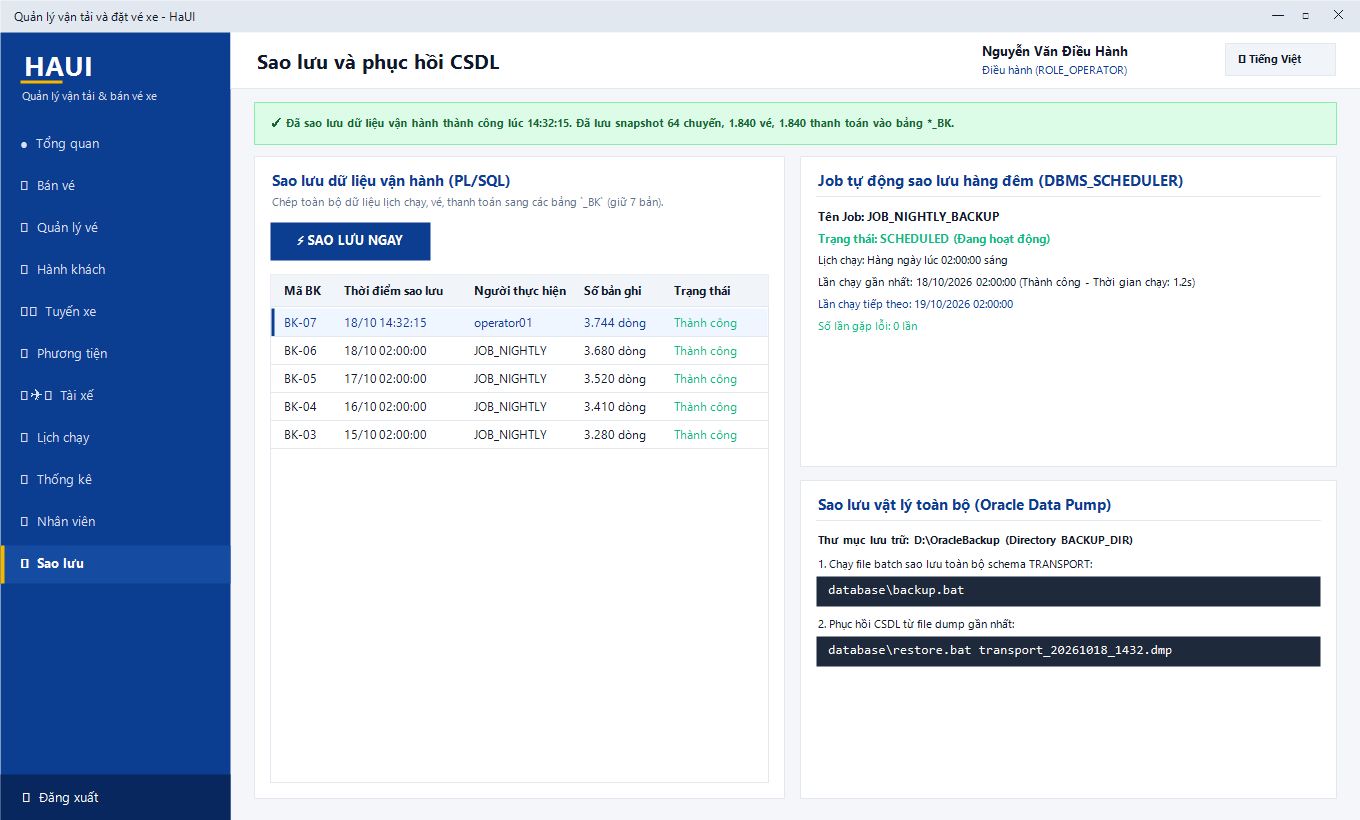
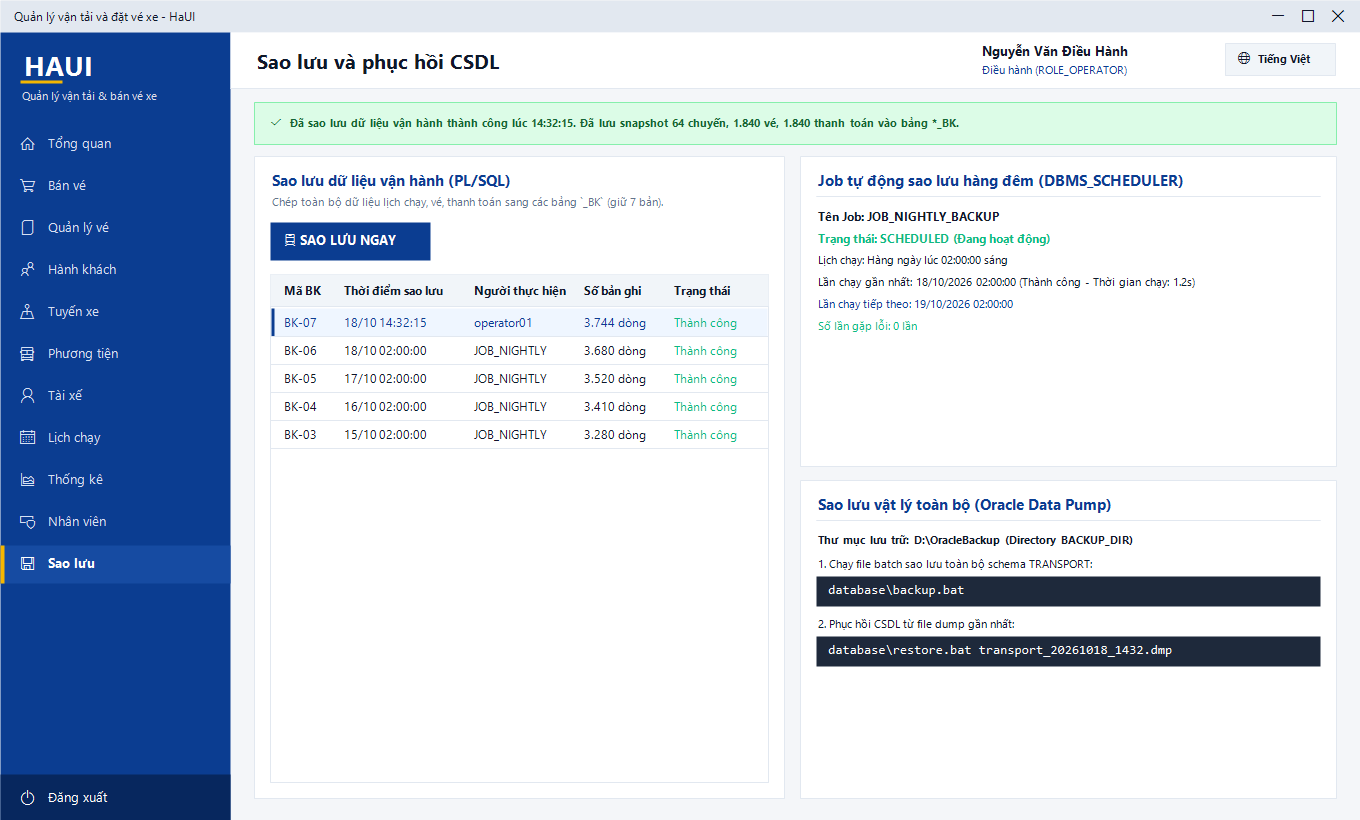
fix(docs): replace emoji with Segoe MDL2 Assets glyphs to fix tofu characters in screenshots

diff --git a/scripts/GenerateScreenshots/Program.cs b/scripts/GenerateScreenshots/Program.cs
@@ -40,6 +40,8 @@ public static class Program
     private static readonly Font FontSmall = new("Segoe UI", 8.5f);
     private static readonly Font FontSmallB = new("Segoe UI", 8.5f, FontStyle.Bold);
     private static readonly Font FontBtn = new("Segoe UI", 9.5f, FontStyle.Bold);
+    private static readonly Font FontSymbol = new("Segoe MDL2 Assets", 11f);
+    private static readonly Font FontSymbolSm = new("Segoe MDL2 Assets", 9f);
 
     private static readonly Brush BNavy = new SolidBrush(Navy);
     private static readonly Brush BNavyDark = new SolidBrush(NavyDark);
@@ -117,9 +119,9 @@ public static class Program
 
         var titleText = isEng ? "Transport Management & Ticket Booking - HaUI" : "Quản lý vận tải và đặt vé xe - HaUI";
         g.DrawString(titleText, FontTitle, BDark, 12, 8);
-        g.DrawString("—", FontTitle, BDark, w - 90, 6);
-        g.DrawString("□", FontTitle, BDark, w - 60, 6);
-        g.DrawString("✕", FontTitle, BDark, w - 30, 6);
+        g.DrawString("\uE921", FontSymbolSm, BDark, w - 90, 10);
+        g.DrawString("\uE922", FontSymbolSm, BDark, w - 60, 10);
+        g.DrawString("\uE8BB", FontSymbolSm, BDark, w - 30, 10);
 
         // Sidebar
         g.FillRectangle(BNavy, 0, 32, 230, h - 32);
@@ -132,7 +134,7 @@ public static class Program
         var menusVi = new[] { "Tổng quan", "Bán vé", "Quản lý vé", "Hành khách", "Tuyến xe", "Phương tiện", "Tài xế", "Lịch chạy", "Thống kê", "Nhân viên", "Sao lưu" };
         var menusEn = new[] { "Dashboard", "Sell Tickets", "Tickets", "Passengers", "Routes", "Vehicles", "Drivers", "Schedules", "Statistics", "Staff", "Backup" };
         var menus = isEng ? menusEn : menusVi;
-        var icons = new[] { "●", "🎫", "📑", "👥", "🛣", "🚌", "👨✈", "📅", "📈", "👤", "💾" };
+        var glyphs = new[] { "\uE80F", "\uE7BF", "\uE8A5", "\uE716", "\uE707", "\uE806", "\uE77B", "\uE787", "\uE9D2", "\uE7EF", "\uE74E" };
 
         var ym = 125;
         for (int i = 0; i < menus.Length; i++)
@@ -141,20 +143,23 @@ public static class Program
             {
                 g.FillRectangle(BNavyHover, 0, ym, 230, 38);
                 g.FillRectangle(BGold, 0, ym, 4, 38);
-                g.DrawString($"{icons[i]}  {menus[i]}", FontMenuB, BWhite, 18, ym + 9);
+                g.DrawString(glyphs[i], FontSymbol, BWhite, 18, ym + 11);
+                g.DrawString(menus[i], FontMenuB, BWhite, 46, ym + 9);
             }
             else
             {
                 using var b = new SolidBrush(Color.FromArgb(215, 225, 245));
-                g.DrawString($"{icons[i]}  {menus[i]}", FontMenu, b, 18, ym + 9);
+                g.DrawString(glyphs[i], FontSymbol, b, 18, ym + 11);
+                g.DrawString(menus[i], FontMenu, b, 46, ym + 9);
             }
             ym += 42;
         }
 
         // Logout button
-        var logoutText = isEng ? "🚪  Sign out" : "🚪  Đăng xuất";
+        var logoutText = isEng ? "Sign out" : "Đăng xuất";
         g.FillRectangle(BNavyDark, 0, h - 46, 230, 46);
-        g.DrawString(logoutText, FontMenu, BWhite, 20, h - 32);
+        g.DrawString("\uE7E8", FontSymbol, BWhite, 18, h - 30);
+        g.DrawString(logoutText, FontMenu, BWhite, 46, h - 32);
 
         // Top Header
         g.FillRectangle(BWhite, 230, 32, w - 230, 56);
@@ -166,11 +171,12 @@ public static class Program
         g.DrawString(role, FontSmall, BNavy, w - 380, 62);
 
         // Lang button
-        var langBtnText = isEng ? "🌐 English" : "🌐 Tiếng Việt";
+        var langBtnText = isEng ? "English" : "Tiếng Việt";
         using (var b = new SolidBrush(ColorTranslator.FromHtml("#F1F5F9")))
             g.FillRectangle(b, w - 135, 43, 110, 32);
         g.DrawRectangle(PBorder, w - 135, 43, 110, 32);
-        g.DrawString(langBtnText, FontSmallB, BDark, w - 124, 51);
+        g.DrawString("\uE774", FontSymbolSm, BDark, w - 124, 52);
+        g.DrawString(langBtnText, FontSmallB, BDark, w - 104, 51);
     }
 
     private static void DrawGridTable(Graphics g, int x, int y, int w, int h, string[] cols, int[] widths, string[][] rows, int selectedIdx = -1)
@@ -266,9 +272,9 @@ public static class Program
         using (var b = new SolidBrush(ColorTranslator.FromHtml("#E2E8F0")))
             g.FillRectangle(b, 0, 0, 900, 32);
         g.DrawString("Quản lý vận tải và đặt vé xe", FontTitle, BDark, 12, 8);
-        g.DrawString("—", FontTitle, BDark, 810, 6);
-        g.DrawString("□", FontTitle, BDark, 840, 6);
-        g.DrawString("✕", FontTitle, BDark, 870, 6);
+        g.DrawString("\uE921", FontSymbolSm, BDark, 810, 10);
+        g.DrawString("\uE922", FontSymbolSm, BDark, 840, 10);
+        g.DrawString("\uE8BB", FontSymbolSm, BDark, 870, 10);
 
         // Left brand
         g.FillRectangle(BNavy, 0, 32, 380, 508);
@@ -364,10 +370,10 @@ public static class Program
         g.DrawLine(PBorder, 900, 254, 1316, 254);
         var nextTrips = new[]
         {
-            (R: "Hà Nội ➔ Hải Phòng", I: "08:30 | 29B-196.88", S: "38/40", St: "Sắp chạy", C: Green),
-            (R: "Hà Nội ➔ Nam Định", I: "09:00 | 29B-205.12", S: "26/29", St: "Sắp chạy", C: Green),
-            (R: "Hà Nội ➔ Quảng Ninh", I: "09:45 | 29B-311.05", S: "34/40", St: "Đang đón khách", C: Green),
-            (R: "Hà Nội ➔ Đà Nẵng", I: "11:00 | 29B-402.19", S: "40/40", St: "Hết vé", C: Red)
+            (R: "Hà Nội → Hải Phòng", I: "08:30 | 29B-196.88", S: "38/40", St: "Sắp chạy", C: Green),
+            (R: "Hà Nội → Nam Định", I: "09:00 | 29B-205.12", S: "26/29", St: "Sắp chạy", C: Green),
+            (R: "Hà Nội → Quảng Ninh", I: "09:45 | 29B-311.05", S: "34/40", St: "Đang đón khách", C: Green),
+            (R: "Hà Nội → Đà Nẵng", I: "11:00 | 29B-402.19", S: "40/40", St: "Hết vé", C: Red)
         };
         int ty = 268;
         foreach (var tr in nextTrips)
@@ -430,10 +436,10 @@ public static class Program
 
         var trips = new[]
         {
-            (Time: "07:00 ➔ 09:00", Route: "Hà Nội - Hải Phòng", Price: "120.000 ₫", Bus: "29B-196.88 (40 chỗ)", Empty: "28 ghế trống", Sel: true),
-            (Time: "09:30 ➔ 11:30", Route: "Hà Nội - Hải Phòng", Price: "120.000 ₫", Bus: "29B-205.12 (29 chỗ)", Empty: "14 ghế trống", Sel: false),
-            (Time: "13:00 ➔ 15:00", Route: "Hà Nội - Hải Phòng", Price: "120.000 ₫", Bus: "29B-311.05 (40 chỗ)", Empty: "35 ghế trống", Sel: false),
-            (Time: "16:30 ➔ 18:30", Route: "Hà Nội - Hải Phòng", Price: "120.000 ₫", Bus: "29B-402.19 (40 chỗ)", Empty: "39 ghế trống", Sel: false)
+            (Time: "07:00 → 09:00", Route: "Hà Nội - Hải Phòng", Price: "120.000 ₫", Bus: "29B-196.88 (40 chỗ)", Empty: "28 ghế trống", Sel: true),
+            (Time: "09:30 → 11:30", Route: "Hà Nội - Hải Phòng", Price: "120.000 ₫", Bus: "29B-205.12 (29 chỗ)", Empty: "14 ghế trống", Sel: false),
+            (Time: "13:00 → 15:00", Route: "Hà Nội - Hải Phòng", Price: "120.000 ₫", Bus: "29B-311.05 (40 chỗ)", Empty: "35 ghế trống", Sel: false),
+            (Time: "16:30 → 18:30", Route: "Hà Nội - Hải Phòng", Price: "120.000 ₫", Bus: "29B-402.19 (40 chỗ)", Empty: "39 ghế trống", Sel: false)
         };
         int ty = 226;
         foreach (var t in trips)
@@ -471,7 +477,8 @@ public static class Program
         g.DrawString("Đang chọn", FontSmall, BDark, 878, 218);
         g.DrawLine(PBorder, 722, 242, 1030, 242);
 
-        g.DrawString("🚗 Vị trí tài xế", FontSmallB, BMuted, 724, 252);
+        g.DrawString("\uE806", FontSymbolSm, BMuted, 724, 254);
+        g.DrawString("Vị trí tài xế", FontSmallB, BMuted, 742, 252);
 
         var bookedSeats = new[] { 1, 2, 6, 8, 11, 12, 15, 20, 22, 28, 30, 33 };
         int sy = 280;
@@ -526,7 +533,10 @@ public static class Program
         using (var p = new Pen(GreenBorder, 1f))
             g.DrawRectangle(p, 1074, ry, 246, 28);
         using (var b = new SolidBrush(Green))
-            g.DrawString("✓ Khách hàng thân thiết (3 vé đã mua)", FontSmallB, b, 1082, ry + 6);
+        {
+            g.DrawString("\uE73E", FontSymbolSm, b, 1082, ry + 7);
+            g.DrawString("Khách hàng thân thiết (3 vé đã mua)", FontSmallB, b, 1098, ry + 6);
+        }
 
         g.FillRectangle(BNavy, 1074, 580, 246, 44);
         g.DrawString("ĐẶT VÉ (Ctrl+S)", FontBtn, BWhite, new RectangleF(1074, 580, 246, 44), SfCenter);
@@ -552,11 +562,11 @@ public static class Program
 
         g.FillRectangle(BNavy, mx, my, mw, 50);
         g.DrawString("Thanh toán vé xe", FontCardT, BWhite, mx + 20, my + 16);
-        g.DrawString("✕", FontMenu, BWhite, mx + mw - 34, my + 14);
+        g.DrawString("\uE8BB", FontSymbolSm, BWhite, mx + mw - 30, my + 16);
 
         g.DrawString("Mã vé: TK-20261019-001  |  Ghế: 05", FontSmallB, BMuted, mx + 28, my + 70);
         g.DrawString("Khách hàng: Nguyễn Văn An (0912345678)", FontSmall, BDark, mx + 28, my + 92);
-        g.DrawString("Tuyến: Hà Nội ➔ Hải Phòng (07:00 19/10/2026)", FontSmall, BDark, mx + 28, my + 112);
+        g.DrawString("Tuyến: Hà Nội → Hải Phòng (07:00 19/10/2026)", FontSmall, BDark, mx + 28, my + 112);
         g.DrawLine(PBorder, mx + 28, my + 140, mx + mw - 28, my + 140);
 
         g.DrawString("Số tiền cần thanh toán:", FontMenu, BDark, mx + 28, my + 155);
@@ -598,7 +608,8 @@ public static class Program
         // Toolbar
         g.FillRectangle(BWhite, 254, 102, 1082, 54);
         g.DrawRectangle(PBorder, 254, 102, 1082, 54);
-        g.DrawString("🔍 Tìm mã vé, SĐT, tên khách:", FontSmallB, BDark, 268, 110);
+        g.DrawString("\uE721", FontSymbolSm, BDark, 268, 112);
+        g.DrawString("Tìm mã vé, SĐT, tên khách:", FontSmallB, BDark, 286, 110);
         using (var b = new SolidBrush(ColorTranslator.FromHtml("#F8FAFC")))
             g.FillRectangle(b, 268, 128, 220, 24);
         g.DrawRectangle(PBorder, 268, 128, 220, 24);
@@ -620,11 +631,13 @@ public static class Program
 
         using (var b = new SolidBrush(ColorTranslator.FromHtml("#059669")))
             g.FillRectangle(b, 1060, 112, 120, 34);
-        g.DrawString("🖨 IN VÉ (Ctrl+P)", FontSmallB, BWhite, new RectangleF(1060, 112, 120, 34), SfCenter);
+        g.DrawString("\uE749", FontSymbolSm, BWhite, 1070, 122);
+        g.DrawString("IN VÉ (Ctrl+P)", FontSmallB, BWhite, 1088, 121);
 
         using (var b = new SolidBrush(ColorTranslator.FromHtml("#16A34A")))
             g.FillRectangle(b, 1190, 112, 130, 34);
-        g.DrawString("📊 XUẤT EXCEL", FontSmallB, BWhite, new RectangleF(1190, 112, 130, 34), SfCenter);
+        g.DrawString("\uE9D2", FontSymbolSm, BWhite, 1200, 122);
+        g.DrawString("XUẤT EXCEL", FontSmallB, BWhite, 1218, 121);
 
         var tCols = new[] { "Mã vé", "Tuyến xe", "Khởi hành", "Ghế", "Khách hàng", "Số điện thoại", "Giá vé", "Trạng thái", "Người bán" };
         var tWidths = new[] { 120, 180, 140, 60, 160, 120, 110, 130, 110 };
@@ -762,7 +775,10 @@ public static class Program
         using (var p = new Pen(YellowBorder, 1.5f))
             g.DrawRectangle(p, 254, 102, 1082, 40);
         using (var b = new SolidBrush(ColorTranslator.FromHtml("#92400E")))
-            g.DrawString("⚠ Chú ý: Có 1 tài xế sắp hết hạn bằng lái trong 30 ngày tới (Đỗ Minh Quân - Hạng E - Hạn: 28/10/2026). Vui lòng yêu cầu gia hạn bằng.", FontSmallB, b, 268, 114);
+        {
+            g.DrawString("\uE7BA", FontSymbolSm, b, 268, 116);
+            g.DrawString("Chú ý: Có 1 tài xế sắp hết hạn bằng lái trong 30 ngày tới (Đỗ Minh Quân - Hạng E - Hạn: 28/10/2026). Vui lòng yêu cầu gia hạn bằng.", FontSmallB, b, 288, 114);
+        }
 
         var dCols = new[] { "Mã TX", "Họ và tên", "Số điện thoại", "CCCD", "Hạng bằng", "Hạn bằng lái", "Tình trạng bằng" };
         var dWidths = new[] { 70, 160, 110, 120, 80, 100, 100 };
@@ -960,7 +976,10 @@ public static class Program
         using (var p = new Pen(GreenBorder, 1.5f))
             g.DrawRectangle(p, 254, 102, 1082, 42);
         using (var b = new SolidBrush(ColorTranslator.FromHtml("#166534")))
-            g.DrawString("✓ Đã sao lưu dữ liệu vận hành thành công lúc 14:32:15. Đã lưu snapshot 64 chuyến, 1.840 vé, 1.840 thanh toán vào bảng *_BK.", FontSmallB, b, 268, 115);
+        {
+            g.DrawString("\uE73E", FontSymbolSm, b, 268, 116);
+            g.DrawString("Đã sao lưu dữ liệu vận hành thành công lúc 14:32:15. Đã lưu snapshot 64 chuyến, 1.840 vé, 1.840 thanh toán vào bảng *_BK.", FontSmallB, b, 288, 115);
+        }
 
         // Left Col
         g.FillRectangle(BWhite, 254, 156, 530, 642);
@@ -969,7 +988,8 @@ public static class Program
         g.DrawString("Chép toàn bộ dữ liệu lịch chạy, vé, thanh toán sang các bảng `_BK` (giữ 7 bản).", FontSmall, BMuted, 270, 194);
 
         g.FillRectangle(BNavy, 270, 222, 160, 38);
-        g.DrawString("⚡ SAO LƯU NGAY", FontBtn, BWhite, new RectangleF(270, 222, 160, 38), SfCenter);
+        g.DrawString("\uE7C0", FontSymbolSm, BWhite, 282, 234);
+        g.DrawString("SAO LƯU NGAY", FontBtn, BWhite, 298, 231);
 
         var bkCols = new[] { "Mã BK", "Thời điểm sao lưu", "Người thực hiện", "Số bản ghi", "Trạng thái" };
         var bkW = new[] { 60, 130, 110, 90, 90 };
@@ -1071,10 +1091,10 @@ public static class Program
         g.DrawLine(PBorder, 900, 254, 1316, 254);
         var enNextTrips = new[]
         {
-            (R: "Hanoi ➔ Haiphong", I: "08:30 | 29B-196.88", S: "38/40", St: "Ready", C: Green),
-            (R: "Hanoi ➔ Nam Dinh", I: "09:00 | 29B-205.12", S: "26/29", St: "Ready", C: Green),
-            (R: "Hanoi ➔ Quang Ninh", I: "09:45 | 29B-311.05", S: "34/40", St: "Boarding", C: Green),
-            (R: "Hanoi ➔ Da Nang", I: "11:00 | 29B-402.19", S: "40/40", St: "Sold Out", C: Red)
+            (R: "Hanoi → Haiphong", I: "08:30 | 29B-196.88", S: "38/40", St: "Ready", C: Green),
+            (R: "Hanoi → Nam Dinh", I: "09:00 | 29B-205.12", S: "26/29", St: "Ready", C: Green),
+            (R: "Hanoi → Quang Ninh", I: "09:45 | 29B-311.05", S: "34/40", St: "Boarding", C: Green),
+            (R: "Hanoi → Da Nang", I: "11:00 | 29B-402.19", S: "40/40", St: "Sold Out", C: Red)
         };
         int ty = 268;
         foreach (var tr in enNextTrips)
@@ -1118,14 +1138,17 @@ public static class Program
         using (var b = new SolidBrush(ColorTranslator.FromHtml("#107C41")))
             g.FillRectangle(b, 0, 0, 1280, 42);
         g.DrawString("BaoCao_ThongKe_20261018.xlsx - Excel", FontMenuB, BWhite, 16, 12);
-        g.DrawString("—   □   ✕", FontMenu, BWhite, 1200, 12);
+        g.DrawString("\uE921", FontSymbolSm, BWhite, 1200, 14);
+        g.DrawString("\uE922", FontSymbolSm, BWhite, 1225, 14);
+        g.DrawString("\uE8BB", FontSymbolSm, BWhite, 1250, 14);
 
         // Ribbon
         using (var b = new SolidBrush(ColorTranslator.FromHtml("#F3F4F6")))
             g.FillRectangle(b, 0, 42, 1280, 58);
         g.DrawLine(PBorder, 0, 100, 1280, 100);
         g.DrawString("File    Home    Insert    Page Layout    Formulas    Data    Review    View", FontGridCell, BDark, 16, 52);
-        g.DrawString("📋 Paste  |  B  I  U  |  Font: Segoe UI  11  |  Align  |  Format: #,##0 ₫  |  AutoSum  |  Sort & Filter", FontSmall, BMuted, 16, 78);
+        g.DrawString("\uE77F", FontSymbolSm, BMuted, 16, 80);
+        g.DrawString("Paste  |  B  I  U  |  Font: Segoe UI  11  |  Align  |  Format: #,##0 ₫  |  AutoSum  |  Sort & Filter", FontSmall, BMuted, 34, 78);
 
         // Formula Bar
         g.FillRectangle(BWhite, 0, 100, 1280, 28);
